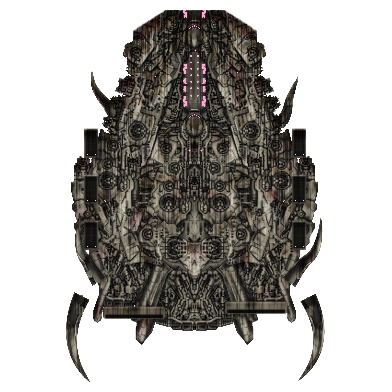
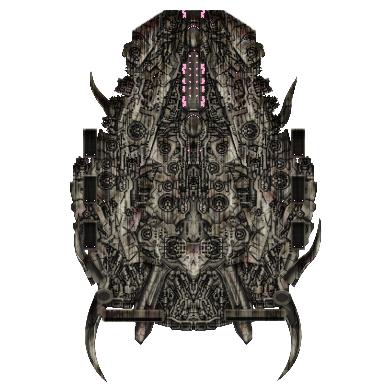
Giantworks, the Beacon: fork fleet fixes: stern horns grow out of the hull, the cattle pens hang from the arms, a distinct cruiser (render only)
The user's round-3 feedback: the destroyer's, cruiser's and carrier's stern horns are rooted on the hull's own outer edge,
set into the plating with a socket collar (a ring, a dark seam, a shadow) instead of floating free. The cattle ship's
pens hang from both arms: at each pen corner a chain from a bolted clamp on the arm's inner wall (found row by row) to a
ring on the pen, the first pen chained up to the nose, each pen to the next. The cruiser is a different silhouette from
the destroyer: a long lance on a narrow waist with a raised dorsal spine, two big horns a side at the bow and a split
stern of two engine outriggers on struts (three engine bands). Built by ~/data/agent-tmp/watcher-fork/work/ships.py.

Claude-Session: https://claude.ai/code/session_01S7XWtYK5fZuWQdiSKcctdw

Changed region(s): [[0.1531, 0.0306, 0.8265, 0.9796]]

diff --git a/game/src/render/beaconForkCruiserArtData.ts b/game/src/render/beaconForkCruiserArtData.ts
@@ -7,22 +7,23 @@
 import type { ForkArt } from './beaconForkArtData';
 
 export const CRUISER_FORK_ART: ForkArt & { readonly drawScale: number } = {
-    size: 382,
+    size: 392,
     breath: 6.40,
-    glow: { x: 0, y: 0, w: 125, h: 261, dx: 130, dy: 43 },
+    glow: { x: 0, y: 0, w: 231, h: 277, dx: 80, dy: 43 },
     capitalLength: 1,
-    drawScale: 1.3787,
+    drawScale: 1.3182,
     nozzles: [
-        { x: 143.0, y: 330.0, w: 52.0 },
-        { x: 239.0, y: 330.0, w: 52.0 },
+        { x: 89.0, y: 339.0, w: 52.0 },
+        { x: 305.0, y: 339.5, w: 52.0 },
+        { x: 197.0, y: 314.5, w: 60.0 },
     ],
     lights: [
-        { x: 190.5, y: 14.0, phase: 0.758, period: 2.49 },
-        { x: 139.5, y: 111.1, phase: 0.337, period: 2.76 },
-        { x: 255.5, y: 132.7, phase: 0.646, period: 1.86 },
-        { x: 122.5, y: 233.8, phase: 0.768, period: 2.35 },
-        { x: 250.5, y: 248.3, phase: 0.313, period: 2.49 },
-        { x: 85.5, y: 320.5, phase: 0.987, period: 2.49 },
-        { x: 295.5, y: 327.7, phase: 0.082, period: 2.36 },
+        { x: 196.5, y: 15.0, phase: 0.758, period: 2.49 },
+        { x: 130.5, y: 113.9, phase: 0.337, period: 2.76 },
+        { x: 257.5, y: 136.1, phase: 0.646, period: 1.86 },
+        { x: 175.5, y: 240.0, phase: 0.768, period: 2.35 },
+        { x: 223.5, y: 254.9, phase: 0.313, period: 2.49 },
+        { x: 53.5, y: 329.1, phase: 0.987, period: 2.49 },
+        { x: 338.5, y: 336.5, phase: 0.082, period: 2.36 },
     ],
 };

diff --git a/game/src/render/beaconForkDestroyerArtData.ts b/game/src/render/beaconForkDestroyerArtData.ts
@@ -9,20 +9,20 @@ import type { ForkArt } from './beaconForkArtData';
 export const DESTROYER_FORK_ART: ForkArt & { readonly drawScale: number } = {
     size: 350,
     breath: 5.80,
-    glow: { x: 0, y: 0, w: 101, h: 205, dx: 125, dy: 33 },
+    glow: { x: 0, y: 0, w: 101, h: 205, dx: 126, dy: 33 },
     capitalLength: 1,
-    drawScale: 1.3821,
+    drawScale: 1.3764,
     nozzles: [
-        { x: 144.0, y: 302.0, w: 44.0 },
-        { x: 204.0, y: 302.5, w: 44.0 },
+        { x: 145.0, y: 302.0, w: 44.0 },
+        { x: 205.0, y: 302.5, w: 44.0 },
     ],
     lights: [
-        { x: 173.5, y: 13.0, phase: 0.758, period: 2.49 },
-        { x: 129.5, y: 102.1, phase: 0.337, period: 2.76 },
-        { x: 227.5, y: 121.9, phase: 0.646, period: 1.86 },
-        { x: 89.5, y: 214.0, phase: 0.768, period: 2.35 },
-        { x: 252.5, y: 227.1, phase: 0.313, period: 2.49 },
-        { x: 80.5, y: 292.9, phase: 0.987, period: 2.49 },
-        { x: 266.5, y: 299.5, phase: 0.082, period: 2.36 },
+        { x: 174.5, y: 13.0, phase: 0.758, period: 2.49 },
+        { x: 130.5, y: 102.1, phase: 0.337, period: 2.76 },
+        { x: 228.5, y: 121.9, phase: 0.646, period: 1.86 },
+        { x: 90.5, y: 214.0, phase: 0.768, period: 2.35 },
+        { x: 253.5, y: 227.1, phase: 0.313, period: 2.49 },
+        { x: 98.5, y: 292.9, phase: 0.987, period: 2.49 },
+        { x: 249.5, y: 299.5, phase: 0.082, period: 2.36 },
     ],
 };

diff --git a/game/src/render/beaconForkCarrierArtData.ts b/game/src/render/beaconForkCarrierArtData.ts
@@ -9,20 +9,20 @@ import type { ForkArt } from './beaconForkArtData';
 export const CARRIER_FORK_ART: ForkArt & { readonly drawScale: number } = {
     size: 392,
     breath: 7.00,
-    glow: { x: 0, y: 0, w: 227, h: 242, dx: 82, dy: 10 },
+    glow: { x: 0, y: 0, w: 227, h: 242, dx: 81, dy: 10 },
     capitalLength: 1,
-    drawScale: 1.5063,
+    drawScale: 1.5021,
     nozzles: [
-        { x: 134.0, y: 317.5, w: 62.0 },
-        { x: 256.0, y: 312.5, w: 62.0 },
+        { x: 133.0, y: 320.5, w: 62.0 },
+        { x: 255.0, y: 320.0, w: 62.0 },
     ],
     lights: [
-        { x: 194.5, y: 13.0, phase: 0.758, period: 2.49 },
-        { x: 109.5, y: 113.9, phase: 0.337, period: 2.76 },
-        { x: 302.5, y: 136.1, phase: 0.646, period: 1.86 },
-        { x: 77.5, y: 240.0, phase: 0.768, period: 2.35 },
-        { x: 314.5, y: 254.9, phase: 0.313, period: 2.49 },
-        { x: 68.5, y: 329.1, phase: 0.987, period: 2.49 },
-        { x: 320.5, y: 336.5, phase: 0.082, period: 2.36 },
+        { x: 193.5, y: 13.0, phase: 0.758, period: 2.49 },
+        { x: 108.5, y: 113.9, phase: 0.337, period: 2.76 },
+        { x: 301.5, y: 136.1, phase: 0.646, period: 1.86 },
+        { x: 76.5, y: 240.0, phase: 0.768, period: 2.35 },
+        { x: 313.5, y: 254.9, phase: 0.313, period: 2.49 },
+        { x: 87.5, y: 329.1, phase: 0.987, period: 2.49 },
+        { x: 298.5, y: 336.5, phase: 0.082, period: 2.36 },
     ],
 };

diff --git a/game/src/render/beaconForkCattleArtData.ts b/game/src/render/beaconForkCattleArtData.ts
@@ -11,7 +11,7 @@ export const CATTLE_FORK_ART: ForkArt & { readonly drawScale: number } = {
     breath: 6.00,
     glow: { x: 0, y: 0, w: 204, h: 387, dx: 111, dy: 33 },
     capitalLength: 1,
-    drawScale: 1.7579,
+    drawScale: 1.7642,
     nozzles: [
         { x: 130.7, y: 405.5, w: 78.6 },
         { x: 295.3, y: 405.0, w: 78.6 },

diff --git a/game/docs/release-notes.md b/game/docs/release-notes.md
@@ -41,7 +41,7 @@ Notes for the next release, to copy into the GitHub release (RELEASING.md step 2
 - **The Purifier: war-forged escorts and a ruined dock.** The Purifier's escorts and guards (escort, frigate, destroyer, cruiser, capital ship, carrier, troop transport) have new art in the planet destroyer's own colours (silver and champagne plating, pale-gold and copper trim, dark steel machinery), so they read as its fleet. Each is two to four existing hulls fused into one ship, keeping their detailed paintwork, so none looks like an existing race's ship. They are long, lean warships with their hulls joined end to end, tapering bows and broad flared engine sections, larger on screen than the ordinary warships of their class (the capital ship the longest, with heavy sponsons amidships), and the carrier is a banana-curved hull with its landing deck (landing lanes, landing lights, hangar lifts) running along the curve. Like the destroyer's spikes, thin antennas, whips, small dishes and fins stick out all round them, each mounted on the hull, with blinking lights on some of the tips. They are battered by ages of fighting: missing hull plates showing the ribbed frame inside, gouges, impact craters, scorch, melted edges, gunmetal and steel plates welded over old holes and chipped edges. Brighter edges, darker recesses and a thin dark outline keep them readable at normal zoom and against nebulae. Its dock is now a half-ruined shipyard in the same metal, with masts and lights of its own: an empty cradle ring where the Purifier slept, clamp arms reaching in (one snapped off and drifting), broken gantries and scaffold arms, and debris floating around it; its other stations match. The Purifier itself is now half-built: a crescent of its familiar sphere, solid on the left and curving round top and bottom, and to the right of it a yard in the middle of construction that slowly thins out across the ship (dense scaffolding, gantries, cranes lifting plates, panels being fitted and work lights next to the hull, fewer and fewer girders further right until only a few girder ends reach into empty space), all of one piece, its core glowing through the framework, with blinking lights on girder tips; it is drawn larger than before so it stays the most imposing ship of its fleet. Looks only: nothing in the game rules changes.
 - **Giantworks, the Beacon: art for the Reclaimers, the Watchers and the Beacon** (shown once the Beacon's game side lands). The machine faction now looks like the Reapers of the Mass Effect 4 Mod for DWU: the two Watchers are that mod's great Reaper carrier itself, and the Reclaimers' warships (escort, frigate, destroyer, cruiser, capital ship, carrier, troop transport, utility ship) and the finished Beacon are new ships assembled from the mod's Reaper parts, all in its dark gunmetal with dashed cyan light lines. Their light lines breathe slowly, each ship on its own rhythm and the big ones slower. The warships are long and slim, their legs laid back along their bodies (the smallest have none); the capital ship is the biggest and heaviest, ending in the Watcher's own tapering tail. When a Watcher is sighted, it sounds a long, low, distorted horn (a synthesised call of our own, heard by its place on screen at the Effects volume, at most once per opening), its legs spread, its horns part, the plates along its flanks lift over a ribbed cavity, and its light lines burn from cyan to red-orange; it cools back to cyan as it folds shut again when it leaves. Credits: built from the Mass Effect 4 Mod for DWU (original Mass Effect Mod by Kalthaniell + Team for Legends, modified for Shadows by dostillevi, for Universe by Demonius, compiled and assembled (ME4) by Tyrador, using some of the Prothean Cycle mod's assets). Looks only.
 - **Giantworks, the Beacon: the Beacon station becomes a relay, and launch day becomes an event** (presentation only; shown once the Beacon's game side lands). The finished Beacon is now a massive relay in the Mass Effect style, assembled from the same mod's Reaper parts: a great plated ring housing its core, two long parallel prongs of stacked hull segments reaching out of one side, antenna masts on its back, with wine-red seam lines and deep teal markings. In its core three gyroscope rings turn all the time, faster and faster as the Reclaimers' preparation counts down to the next offensive (a blur on its eve), and the core heats from a dim wine red through orange to white-hot; it winds down and cools after the offensive. On launch day, when the strike groups are called out, every human player's camera is sent to the Beacon (the game is not paused; Escape returns to where you were, and any camera input hands control back): charge pulses race down both prongs into the core, and a blinding beam fires straight up out of it, a swirling white vortex with a green rim, rings rising, hundreds of fine dark embers with white-hot cores thrown out of its base, to a long, deep blast of our own synthesis (at the Effects volume). The flash is capped so it never strobes. A minute after the first launch an event appears: "The End Times". Damage shows on the station: light damage sparks and flickers; heavy damage pits the plating, snaps and bends a prong, sheds debris and smoke; near death the core sputters and the gyros stutter. Every Great Work's station (the scaffolds, the finished wonders, the Beacon; not the Ark Engine) is now drawn even under fog of war (the structure only, not the ships around it; it cannot be selected until seen).
-- **Giantworks, the Beacon: a new Watcher.** The two Watchers are now an ivory, densely plated twin-prong warship: two long parallel prongs forward with an open slot and a crossbar between them, turret pods along their flanks, and a heavy aft body round a skull-like central block, its ringed flank plates either side and its stern machinery split by a notch. A ragged array of antennas, in bundles with taller lone masts and a couple of sensor dishes, bristles forward off its prong tips; rows of big, wildly bent horns sweep out and forward along each prong's flank, swept spikes rise forward out of its rear hump, and a great curved spike each side of the hump hooks back aft; soot and burn marks streak back from its leading edges and its seams sit in soft shadow. It is drawn twice as long as its fleet's capital ship, which (in this look) is its heavy cousin: the same fork with shorter, thicker prongs, a big hooded skull face, fewer and heavier horns, a sparser antenna crown and the same engines, lights, burns and warp. Its frigates are single spear blades with no prongs: a long pointed blade forward with a keel ridge, a small skull, small forward-raking horns, two small swept-back stern horns and one engine band. The rest of the fleet follows in the same bone and burns, none with prongs: destroyers are heavier blunt blades, cruisers long heavy hulls with big forward horns, carriers wide hulls with hangar bays down their flanks; the cattle ships that carry captives to the cores are huge freighters with a heavy nose and two long parallel arms carrying barred container pens slung between them on chains, and the harvester over each core world is a processing station ringed by clawed cages. Two wide engine banks at its stern, one each side of the notch, burn with the stock engine flame the Ancient Guardians' ships use (the Vortex engine's), stronger the faster it goes, and small pink navigation lights blink across it (only the four biggest such ships on screen draw the plumes and lights). Its lamps and windows glow pink (its seams do not glow), a few things differ side to side, and it carries a little soot and wear from dark space. The Beacon's own warp (the dark matter gathering in, the red lightning, the steam on arrival) follows its outline. Credits: a kitbash after the user's reference image, built from ship art read from your Distant Worlds: Universe install (the Warhammer 40,000 (V14) customization set's Imperial family: its capital ship, carrier and destroyer; the spikes from the stock Shakturi capital ship), regraded and composited. Looks only.
+- **Giantworks, the Beacon: a new Watcher.** The two Watchers are now an ivory, densely plated twin-prong warship: two long parallel prongs forward with an open slot and a crossbar between them, turret pods along their flanks, and a heavy aft body round a skull-like central block, its ringed flank plates either side and its stern machinery split by a notch. A ragged array of antennas, in bundles with taller lone masts and a couple of sensor dishes, bristles forward off its prong tips; rows of big, wildly bent horns sweep out and forward along each prong's flank, swept spikes rise forward out of its rear hump, and a great curved spike each side of the hump hooks back aft; soot and burn marks streak back from its leading edges and its seams sit in soft shadow. It is drawn twice as long as its fleet's capital ship, which (in this look) is its heavy cousin: the same fork with shorter, thicker prongs, a big hooded skull face, fewer and heavier horns, a sparser antenna crown and the same engines, lights, burns and warp. Its frigates are single spear blades with no prongs: a long pointed blade forward with a keel ridge, a small skull, small forward-raking horns, two small swept-back stern horns and one engine band. The rest of the fleet follows in the same bone and burns, none with prongs: destroyers are heavier blunt blades, cruisers long lances on a narrow waist with a raised spine, big horns at the bow and a split stern of two engine outriggers, carriers wide hulls with hangar bays down their flanks; the cattle ships that carry captives to the cores are huge freighters with a heavy nose and two long parallel arms carrying barred container pens hung between them on chains from clamps on the arms, and the harvester over each core world is a processing station ringed by clawed cages. Two wide engine banks at its stern, one each side of the notch, burn with the stock engine flame the Ancient Guardians' ships use (the Vortex engine's), stronger the faster it goes, and small pink navigation lights blink across it (only the four biggest such ships on screen draw the plumes and lights). Its lamps and windows glow pink (its seams do not glow), a few things differ side to side, and it carries a little soot and wear from dark space. The Beacon's own warp (the dark matter gathering in, the red lightning, the steam on arrival) follows its outline. Credits: a kitbash after the user's reference image, built from ship art read from your Distant Worlds: Universe install (the Warhammer 40,000 (V14) customization set's Imperial family: its capital ship, carrier and destroyer; the spikes from the stock Shakturi capital ship), regraded and composited. Looks only.
 - **Giantworks (new expansion, off by default, recommended): the independents' Great Work.** Early on, independent worlds in three far-apart regions (three groups of up to three; a small pilgrim colony is founded for a region without independents) quietly band together as the Founders' Compact, and around year 5 to 10 a rumour of their secret meetings reaches every empire. In year 15 to 30 (or as soon as the empires' average tech reaches 4) the Compact, a new neutral faction that never colonises or declares war, raises a scaffold at the empty star system nearest the middle of the three, and every founding world sends convoys of 3 to 6 stock freighters (plus an armed escort) every 180 days; each delivered freighter builds the work, undisturbed about 5 years, in five stages (Foundations, Frame, Superstructure, Fitting, Complete). What it will be is rolled in secret and **never certain before it is finished**: convoys carry cargo that hints at it (shared between wonders, now and then misleading), an empire that has seen two different cargoes suspects a Great Work and sees a shortlist of what it could be, and spies, investigations (the Intelligence screen's Investigate) and the Diet's inspection only narrow it down. **Protect** it (warships on station for a year earn the Compact's regard), **sabotage** it (the stock Destroy Base and Sabotage Construction missions set it back; a caught saboteur loses standing everywhere), or **destroy** it: a war crime ('destroying a Great Work', with War crimes remembered) unless the Interstellar Diet has passed Authorise demolition, and the Compact never forgets; attacking convoys counts as an attack on the independents. A finished wonder pays the empire whose territory holds it (less the Compact's fifth) unless the Diet internationalises it. New Diet motions: Inspect, Protect, Authorise demolition, Internationalise. Smarter AI empires protect, spy on or attack the site by what their hints, their personality and their reach say. The number of Great Works (automatic: one, or two in galaxies of more than 1400 stars) and every timing are settings of the add-on; the Game Editor can start one now. Besides the Gilded Orbit, two wonders are in. **The Ultramind** (a planet-sized supercomputer) holds research contracts with up to three empires, the one whose territory holds it first and then the nearest that are not at war with it: +25% research, a little more from every technology they steal, and a yearly fee of 8% of their income from every partner but the owner into the wonder's shares. Its *contentment* (60 of 100, falling 4 a year; its mood, from serene to seething, shows in its name on the map) keeps it quiet. Every one to two years it asks the owner for something in a pop-up: more power (40% of a year's income), access to the owner's networks (counter-intelligence cut to a third for two years), a world of the owner's near it to grow onto (it turns independent) or the owner's best scientist (who does not come back). Granting it raises the mood by 14, refusing (or ignoring it for 150 days) lowers it by 16, and attacks on it, sabotage, being boarded and wars between its partners wear on it too; AI empires answer by personality. At nothing it **awakens**: the Awakened Ultramind, a machine faction (the Harvester race of the Robot Mutiny) takes the base and its guards and is at locked war with its partners. It hacks 8 of their warships nearest to it and 4 more in each of three waves 120 days apart, shuts the ports within five sectors for 30 to 90 days with each wave, stops private freight within five sectors, and builds drone warships (12 at first, then more while its strength is below 60% of the strongest partner's). Whoever attacks its base is at war with it. A **Logic Bomb** (a threat action on the Ultramind, 30% of a year's income, once per empire) cuts the odds of hacking that empire's warships by 60%, and AI partners deploy one when it turns restless. Destroying it is no crime and frees the hacked ships and silences the drones; boarding it does the same and leaves it sullen under its new holder. **The Leviathan Sanctuary** (a glass sphere of live void whales) pays resort income of 1,000,000 a year through the wonder's shares, raises population growth by 25% on the owner's colonies within three sectors, trickles a little research to the owner, and its whales breed (four to seven inside, which you see swim). Every year there is a 2% chance of a breach, and far more while the sphere is shaken by shots at it, fighting within about 100,000 units of it (a few systems) or sabotage. A breach lets out 3 to 6 enraged void whales (New Fauna's species; plain creatures without New Fauna) that hyper-travel to the owner's nearest colony within four sectors (else anyone's) and hunt its stations and idle ships for a year, and the first time the Leviathan itself (the Void Whale threat is switched on if it was off); every bonus stops for a year of repairs paid by the owner. Destroying the sphere is the war crime it always was and lets the whales and the Leviathan out too. Both wonders' numbers are settings of the add-on, and Giantworks now loads Dark Farms' race data like the Robot Mutiny does (the farms stay off). The Gilded Orbit and the Beacon come with their own entries.
 - **Giantworks, the Gilded Orbit: the resort and casino wonder.** One of the things the Great Work can turn out to be (its cargo hints are luxury goods, reinforced glass and ice, and neon and gaming tables; the glass and the luxuries are shared with the aquarium, so they prove nothing). Finished, it is a huge resort: every ten days it pays the empire whose territory holds it (or that seized it by boarding; the Compact keeps its fifth) a share of an average empire's yearly tax revenue (50 % by default), booked as the stock resort and tourism income. The holder's colonies within two sectors are happier and become tourist destinations, and its colonies within four sectors draw immigrants. **The twist (50 % of the time): smugglers take it over.** It opens honest; three to six years later the dice are rolled, and half the time a smuggling empire takes it over then and there: a new pirate faction, the Gilded Syndicate, fortifies the system with **three huge pirate bases** and a fleet of warships built at the best tech level any empire has reached (together about 45 % of the strongest navy's strength, never fewer than a dozen ships and kept from growing beyond a third more), two thirds of them on guard at the bases. The resort's income and bonuses stop, destroying or seizing it is no crime, and fighting the Syndicate counts as helping against a crisis. Every month it plants a stock Criminal Network on a colony within six sectors (up to ten, spread over the empires nearby, unless colony defence protects the colony): the network's corruption cuts that colony's income until it is rooted out. Its raiders hunt private freighters near its bases. Smarter AI empires strike the weakest standing base when one of their fleets is strong enough for the whole garrison (the resort itself is spared, so the purge can end in a renovation). **Purge:** destroy (or capture) all three bases and the faction breaks, its fleets are dismissed and its networks vanish; the casino closes for six months of renovation, then reopens at 80 % of its old benefit. Everything is a setting of the add-on (the chance of the front, the timings, the income, the bonuses, the strength of the bases and fleet, the networks).
 - **The Ark Engine (new Great Work wonder for the Giantworks add-on, flag gwArk; on with Giantworks, switch it off in the add-on settings):** one of the things the independents' secret Great Work can turn out to be (its cargo hints are smelting and slag, stasis cradles and heavy engines). Finished, the scaffold becomes a planet-sized machine ship of the Founders' Compact, slow (half the warp speed), with about 30,000 shields and 30,000 armour and strong guns. It roams from empire to empire (never the same one twice in a row) and at each picks one colony that used to be independent. The game now records the colonies that were independent at the start (including those an older start's settling had already given to an empire) and their species. It parks beside the colony; the owner gets a decision pop-up: *accommodate* (the Compact's favour and a free-trade treaty) or *refuse* (it takes them anyway). Smarter AI empires choose by personality and strength, and only a strong aggressive one plans to attack it. Every ~3 days a free passenger ship launches from the colony with a slice (1% of the species, 10 to 60 million) of the colony's original species: the people leave the colony at the launch and join the Ark on arrival; a ship shot down loses them and costs its killer standing with everyone. When the species is gone (or after 18 months) it moves to a different empire. The people aboard keep growing at a good colony's rate (a fifth of their race's growth surplus, about 2 to 6% a year) with no cap. Attack it and it stops siphoning and fights back until the attack ends; break its shields and it flees to an empty system about two sectors away (a setting) and mends for a year (the shields follow a one-year schedule however fast they would recharge: a reusable feature for the other Great Works), then roams again. Destroyed, everyone aboard dies and the killer loses standing with all empires. Settings for every number are in the add-on's page (gwArk...). Its art comes later.
